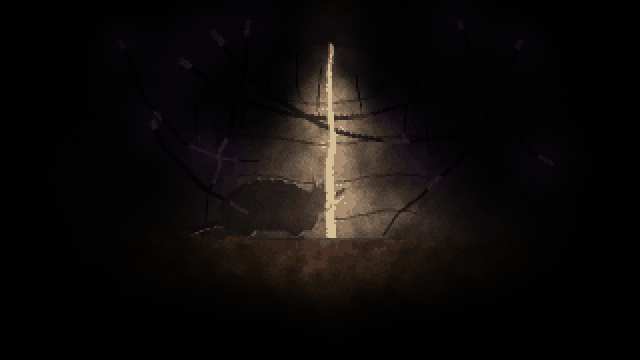
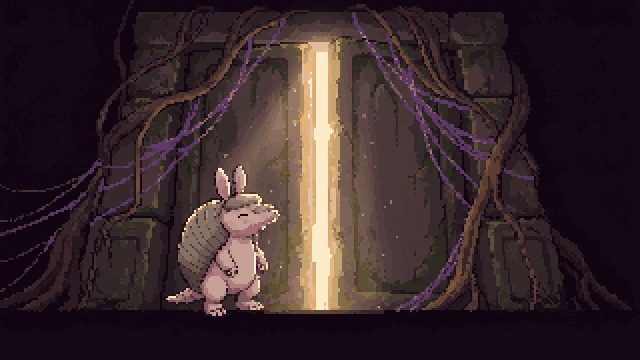
나노바나나 일러스트 kongi_door(둘째 판: 도트 스타일·시트대로 분홍 콩이), FOCUS에 콩이 자리(0136)
Claude-Session: https://claude.ai/code/session_01VNXEyeHwdhsn4oiHYXtNpM

diff --git a/tools/art/ai_illust.py b/tools/art/ai_illust.py
@@ -40,6 +40,7 @@ SPARKLES = {
 # 칸을 다 차지해, momo_deep의 작은 모모(그림의 1%)의 황갈색 털이 라벤더 회색·꽃잎 빨강이 됐다(점을 빠짐없이 넣어도 분홍 얼룩이 남았다).
 FOCUS = {
     'momo_deep': [(745, 225, 835, 340)],
+    'kongi_door': [(265, 255, 450, 500)],   # 분홍 몸이 베이지 회색이 됐다
 }
 # 세로로 남을 때 자를 높이(0 위·1 아래). 없으면 가운데.
 CROP_Y = {}

diff --git a/assets/LICENSES.md b/assets/LICENSES.md
@@ -11,7 +11,7 @@
 | `art/portraits.png` | 직접 그림. 원본 `tools/art/portraits.py`. **Naïl 칸 0~3·18~29, 포포 칸 5~6, 물든 모모 칸 7~8, 들쥐 대장(물든 보리) 칸 9, 보리 칸 10~11, 돌아온 모모 칸 12~14, 누룩 할매 칸 15~16, 엄마 칸 17, 도토 칸 30~32, 수수 칸 33~34, 콩이 칸 35~37**은 나노바나나(Google Gemini 이미지 모델)로 사장이 그린 원본 `tools/art/sources/ai/*.png`를 `tools/art/ai_portraits.py`가 칸으로 만든 것(2026-10-26, docs/decisions/0108·0109·0110·0112·0113·0114·0115·0116·0117·0118·0119·0120·0121·0122). 참고 그림은 직접 그린 초상화만 넣었다(팩 그림 없음, 0064). 보이는 ✦ 로고는 원본에서 지웠다(0133). 모든 생성 그림에 SynthID 워터마크가 들어 있다 | © 2026 Beardworks | 대화창 초상화 88×88, 한 줄 12칸(Naïl 털빛 3 × 표정 4 포함, Naïl 표정 4 + 이웃 그림자 + 라쿤 포포 2 + 물든 모모 2 + 들쥐 대장·보리 3 + 돌아온 모모 3 + 누룩 할매 2 + 엄마 두더지 1 + 도토 3 + 수수 2 + 콩이 3) |
 | `art/critters.png` | 직접 그림. 원본 `tools/art/critters.py` | © 2026 Beardworks | 적(물든 들쥐·생쥐·시궁쥐·다람쥐·청설모)·허수아비·라쿤 포포·물든 모모·돌아온 모모·도토·돌아온 도토·수수·콩이·돌아온 콩이 16×16 + 흰 실루엣. v2 손으로 찍은 자세 |
 | `art/chief.png` | 직접 그림. 원본 `tools/art/chief.py` | © 2026 Beardworks | 튜토리얼 보스 들쥐 대장(물든 모습 8칸)·돌아온 보리(5칸) 32×32 + 흰 실루엣 |
-| `art/illust/*.png`(타이틀 바탕 `title.png`·`title_fog.png` 포함, 0083 — 타이틀은 바탕 그림 없이 코드로만) | 직접 그림(임시). 원본 `tools/art/illust.py`. **`great_tree`·`mother_burrow`·`bori_freed`·`momo_bloom`·`halmae_deep`·`last_bloom`·`sprout`·`molehill`·`doto_memory`·`momo_deep`**은 나노바나나(Google Gemini 이미지 모델)로 사장이 그린 원본 `tools/art/sources/ai/illust/*.png`를 `tools/art/ai_illust.py`가 게임 격자로 만든 것(2026-10-26, docs/decisions/0125~0132·0134·0135, 참고 그림은 나노바나나 캐릭터 시트·초상화와 (처음 둘은) 구도 그림만, 팩 그림 없음, 보이는 ✦ 로고는 원본에서 지움(0133), SynthID 워터마크 있음) | © 2026 Beardworks(코드 그림의 바탕은 아래 그림들, CC0·퍼블릭 도메인) | 컷씬 일러스트 9장 640×360(2배 밀도, 일부는 패닝용으로 더 큼). 사람이 그린 그림으로 바꾸면 이 행을 작가·계약으로 고친다(docs/art/cutscene-illustrations.md) |
+| `art/illust/*.png`(타이틀 바탕 `title.png`·`title_fog.png` 포함, 0083 — 타이틀은 바탕 그림 없이 코드로만) | 직접 그림(임시). 원본 `tools/art/illust.py`. **`great_tree`·`mother_burrow`·`bori_freed`·`momo_bloom`·`halmae_deep`·`last_bloom`·`sprout`·`molehill`·`doto_memory`·`momo_deep`·`kongi_door`**은 나노바나나(Google Gemini 이미지 모델)로 사장이 그린 원본 `tools/art/sources/ai/illust/*.png`를 `tools/art/ai_illust.py`가 게임 격자로 만든 것(2026-10-26, docs/decisions/0125~0132·0134~0136, 참고 그림은 나노바나나 캐릭터 시트·초상화와 (처음 둘은) 구도 그림만, 팩 그림 없음, 보이는 ✦ 로고는 원본에서 지움(0133), SynthID 워터마크 있음) | © 2026 Beardworks(코드 그림의 바탕은 아래 그림들, CC0·퍼블릭 도메인) | 컷씬 일러스트 9장 640×360(2배 밀도, 일부는 패닝용으로 더 큼). 사람이 그린 그림으로 바꾸면 이 행을 작가·계약으로 고친다(docs/art/cutscene-illustrations.md) |
 | `tools/art/sources/robert_mouth_of_cave.jpg` → `art/illust/mother_burrow.png` 흙벽 질감 | Hubert Robert, *The Mouth of a Cave*, 유화, 1784, The Met 17.190.25 [소장품 페이지](https://www.metmuseum.org/art/collection/search/437470) (web-large, 2026-10-26) | CC0(Met Open Access, `isPublicDomain: true`) | 엄마 굴 일러스트(0073). 오른쪽 바위벽만 잘라 좌우 대칭으로 넓히고 **밝기 질감으로만** 쓴다(색은 코드의 굴 색). 지금은 나노바나나 원본이 그 장면을 대신해 게임 그림에 쓰이지 않는다(코드 그림으로 되돌릴 때만, 0126) |
 | `tools/art/sources/meadow_at_sunset_1845.jpg` → `art/illust/bori_freed.png` 바탕 | *A Meadow at Sunset*, ca. 1845, National Gallery of Art 2013.196.3 소장. [rawpixel](https://www.rawpixel.com/image/7727995/image-art-public-domain-artworks) 이미지를 Openverse 썸네일(600px)로 받음(2026-10-26). 작가 이름은 rawpixel 제목에 'Paul'까지만 보여 확인 못 함 | CC0 1.0(Openverse 표기, NGA Open Access) | 보리 일러스트 바탕(0073). 지금은 나노바나나 원본이 그 장면을 대신해 게임 그림에 쓰이지 않는다(0127) |
 | `tools/art/sources/landscape_background_1846.jpg` → `art/illust/momo_bloom.png` 바탕 | *Landscape background*(1846–1848), 수채. [rawpixel](https://www.rawpixel.com/image/8544138/image-background-aesthetic-cloud) 이미지를 Openverse 썸네일(600px)로 받음(2026-10-26). 작가·소장처 미확인 | CC0 1.0(Openverse 표기) | 모모 일러스트 바탕(0073). 원 소장처를 확인하면 이 줄을 고친다. 지금은 나노바나나 원본이 그 장면을 대신해 게임 그림에 쓰이지 않는다(0128) |

diff --git a/docs/phase-1-combat-prototype.md b/docs/phase-1-combat-prototype.md
@@ -126,7 +126,7 @@
 | 해·모닥불 그림자(0102~0106, 시험) | `render.rs`(draw_sun_shadows·shadow_dir·sun_shear·silhouette_material, draw_sorted의 sun), `sunny.rs`(stamp_sun_shadow), `terrain.rs`(Baker::fires), `tuning.rs`(SUN_SHADOW_*·FIRE_SHADOW_*·DECOR_LIFT_*) | 서 있는 것의 모양을 발 줄 축으로 눕혀 렌더 타깃에 모아 한 번에 얹는다. 밝은 곳은 해(오른쪽 아래), 모닥불 곁은 불 바깥쪽(150px, 멀수록 길게, 불이 아래면 더 길게 0104, 어두운 곳은 바깥으로 옅게). 모닥불 돌은 돌만 키운 모양(뒤쪽은 짧게, 0105). 그림자 패스는 몸만(빛·표시·반투명·바닥 것 제외, 밝은 곳은 타원 그림자 끔, 0106). 구운 꽃·조약돌·풀포기는 높이 비율만큼 짧게 |
 | Naïl·포포·모모(돌아옴·물듦)·보리(돌아옴·물듦)·누룩 할매·엄마·도토(돌아옴·물듦)·수수·콩이(돌아옴·물듦) 초상화 나노바나나(0107~0122, 이웃 그림자 칸 4 말고 모두) | `tools/art/sources/ai/nail_*.png`, `tools/art/ai_portraits.py`, `tools/art/portraits.py`(sheet), `docs/art/nano-banana-prompts.md` | 표정 넷 원본 → 로고 지우기·결의 눈 색·배경 투명·88×88·한 팔레트(눈 8색 따로)·털빛 셋(주둥이·발톱은 자리로 지킴). 포포: 틀 맞추기(높이 92%)·채도 높은 색 따로. 모모: 검은 선 → 자두빛, 틀 1.22(귀 끝을 칸 맨 위에, 가슴을 칸 아래로), 가슴이 지워지지 않게 아래 끝 번지기 끔. 물든 모모: 같은 틀, 실은 굵게·위로, 눈은 선명한 초록으로 고쳐 그림, 흰빛은 보랏빛으로 물들임. 보리: 시트를 통통하게 고쳐 그림, 틀 그대로. 들쥐 대장: 보리를 고쳐 그림, 눈 팔레트 안 뗌(보라 기운 털), 빨간 눈 밝게. 할매: 시트의 둥근 얼굴 판으로 표정 짝, 둘러싸인 배경 틈 지움. 엄마: Naïl 초상화를 함께 넣고 털을 짙고 매끈하게, 앞발은 따로 고쳐 그림. Naïl 결의: 덜 표독스럽게 다시 그림, 팔레트를 얼려 다른 칸은 그대로. 도토: 시트에서 조끼·보라 꽃·리본 빼고, 몸이 잘린 줄까지만 써 배 구멍 막음. 물든 도토: 도토를 고쳐 그림, 호박색 눈 밝게. 수수: 생김새 글을 새로 쓰고 삽발을 칸 아래에. 콩이: 3/4 모습 기준, 토끼 귀가 아닌 뾰족한 귀. 물든 콩이: 하늘빛 눈 밝히기, 배경색 잡기를 튀는 점에 강하게. 다른 캐릭터는 다음 차례 |
 | 앱 아이콘: 큰 나무·실에 얽힌 뿌리 실루엣(0123) | `tools/icons/make_icons.py`(`art`), `ios/icons`, `android/res/mipmap-*` | 64칸 코드 그림, 금빛 원 앞 나무 + 보랏빛 앞 뿌리 + 뿌리 다발을 묶는 실 고리 둘. 일러스트에서 자른 것과 견주어 이것을 유지(48px에서 읽힘) |
-| 나노바나나 일러스트(0125~) | `tools/art/sources/ai/illust/*.png`, `tools/art/ai_illust.py`, `tools/art/illust.py`(main) | `great_tree`·`mother_burrow`(실을 지운 자리에 맨 나무껍질을 그리게 해 집 장면에서 실 제거)·`bori_freed`(물든 모습 그림을 빼고 시트대로 다시 그림)·`momo_bloom`(구도 그림을 빼고 비율을 글로)·`halmae_deep`(Naïl을 대화창 위로)·`last_bloom`(이웃 넷을 패닝 끝 대화창 위로)·`sprout`·`molehill`·`doto_memory`·`momo_deep`(작은 모모의 색은 `FOCUS` 팔레트, 0135). 남은 둘: `kongi_door`·`title`. ✦ 로고는 원본에서 한 번 지운다(`tools/art/strip_logo.py`, 흰색 얹기 되돌리기, 0133). 남은 장면도 구도 그림 없이. 게임 칸마다 가장 흔한 색 + 채도 높은 색은 색상별 팔레트·칸 문턱 15%(작은 빨간 눈을 지킨다). 남은 장면은 같은 길 |
+| 나노바나나 일러스트(0125~) | `tools/art/sources/ai/illust/*.png`, `tools/art/ai_illust.py`, `tools/art/illust.py`(main) | `great_tree`·`mother_burrow`(실을 지운 자리에 맨 나무껍질을 그리게 해 집 장면에서 실 제거)·`bori_freed`(물든 모습 그림을 빼고 시트대로 다시 그림)·`momo_bloom`(구도 그림을 빼고 비율을 글로)·`halmae_deep`(Naïl을 대화창 위로)·`last_bloom`(이웃 넷을 패닝 끝 대화창 위로)·`sprout`·`molehill`·`doto_memory`·`momo_deep`(작은 모모의 색은 `FOCUS` 팔레트, 0135)·`kongi_door`(0136). 남은 하나: `title`. ✦ 로고는 원본에서 한 번 지운다(`tools/art/strip_logo.py`, 흰색 얹기 되돌리기, 0133). 남은 장면도 구도 그림 없이. 게임 칸마다 가장 흔한 색 + 채도 높은 색은 색상별 팔레트·칸 문턱 15%(작은 빨간 눈을 지킨다). 남은 장면은 같은 길 |
 | 웨이브 | `world.rs`, `scenario.rs` | 지금은 개발 시나리오(아레나·웨이브 3부터)에서만. 적을 다 잡으면 1.2초 뒤 다음 웨이브(1C+1S → 2C+1S → 2C+2S → 3C+2S). 명세엔 없지만 5분 플레이 판정을 위해 넣음 |
 
 확인한 것: 데스크톱(Xvfb) 실행 캡처로 렌더 방향·공격 반원·굴파기·히트박스 표시, 헤드리스 Chromium으로 웹 빌드 로드·입력·콘솔(mismatch 없음). 확인 못 한 것: 실제 손맛(판정 1~4), 실기 게임패드, 소리의 실제 느낌(컨테이너에 오디오 장치 없음).

diff --git a/docs/decisions/0136-ai-illustration-kongi-door.md b/docs/decisions/0136-ai-illustration-kongi-door.md
@@ -1,0 +1,14 @@
+# 0136. 나노바나나 일러스트 `kongi_door`
+
+- 날짜: 2026-10-26
+- 상태: 채택. 0135에 이은 열한째 장. 첨부: `sheet_kongi.png`, 공통 스타일·세계 규칙·콩이 글 + 장면 글, "Aspect ratio 16:9".
+
+## 결정(`tools/art/sources/ai/illust/kongi_door.png`, `ai_illust.FOCUS`)
+- **첫 판은 버렸다**: 장면 글만 넣어 도트가 아닌 매끈한 그림(안개 그라디언트)이 나왔고, "실루엣"이라 적어 콩이가 시트와 다른 마른 아르마딜로 그림자가 됐고, 발이 높이 80%(창 아래)였다. 셋을 한 번에 고쳐야 해 고치기 대신 새 대화로, 공통 스타일을 앞에 붙이고 "실루엣이 아니라 역광 테두리, 분홍 얼굴·배는 보이게", "높이 3분의 1, 발은 아래 4분의 1 위"로 다시 그렸다. 프롬프트 문서의 콩이 글도 확정 시트(분홍 몸·긴 분홍 귀)에 맞췄다(예전 "짧고 뾰족한 귀"는 시트 전 글).
+- 둘째 판 채택. 이끼 낀 돌문 틈에서 금빛 빛줄기, 늘어진 갈색 뿌리와 흘러내리는 보라 실, 문 앞 왼쪽에 눈 감고 빛 쪽으로 고개를 든 콩이(시트대로 분홍 몸·회색 띠 껍질·긴 분홍 귀).
+- 콩이가 높이 45~87%라 다리·배 아래가 내레이션 창(73%부터, 72% 어둠)에 걸린다. 얼굴·귀·껍질 윗부분이 창 위로 보여 그대로 둔다(프롬프트의 "발은 아래 4분의 1 위"는 어겼다).
+- ✦는 원본에서 지웠다(0133, n 1.07, 되돌리기만).
+- 분홍 몸이 팔레트에서 베이지 회색이 돼 `FOCUS`에 콩이 자리를 넣었다(0135와 같은 까닭). 볼 홍조는 게임 점 한 칸쯤이라 사라진다.
+
+## 확인
+- 게임 그림 640×360에 내레이션 창 자리를 얹어 봤다. FOCUS 전후·원본을 크게 견줘 분홍이 돌아온 것을 봤다.
